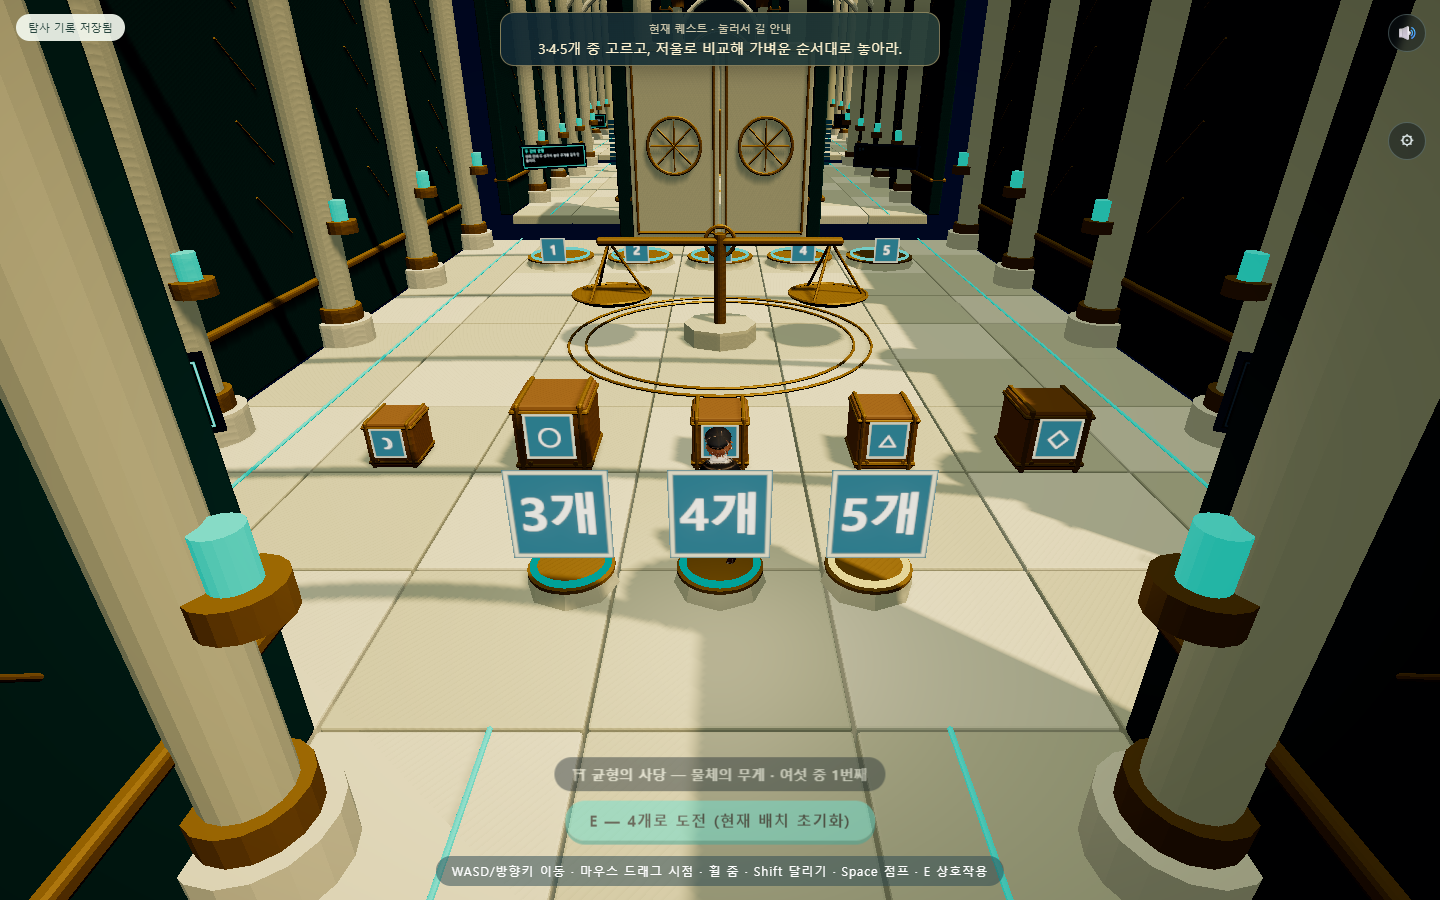
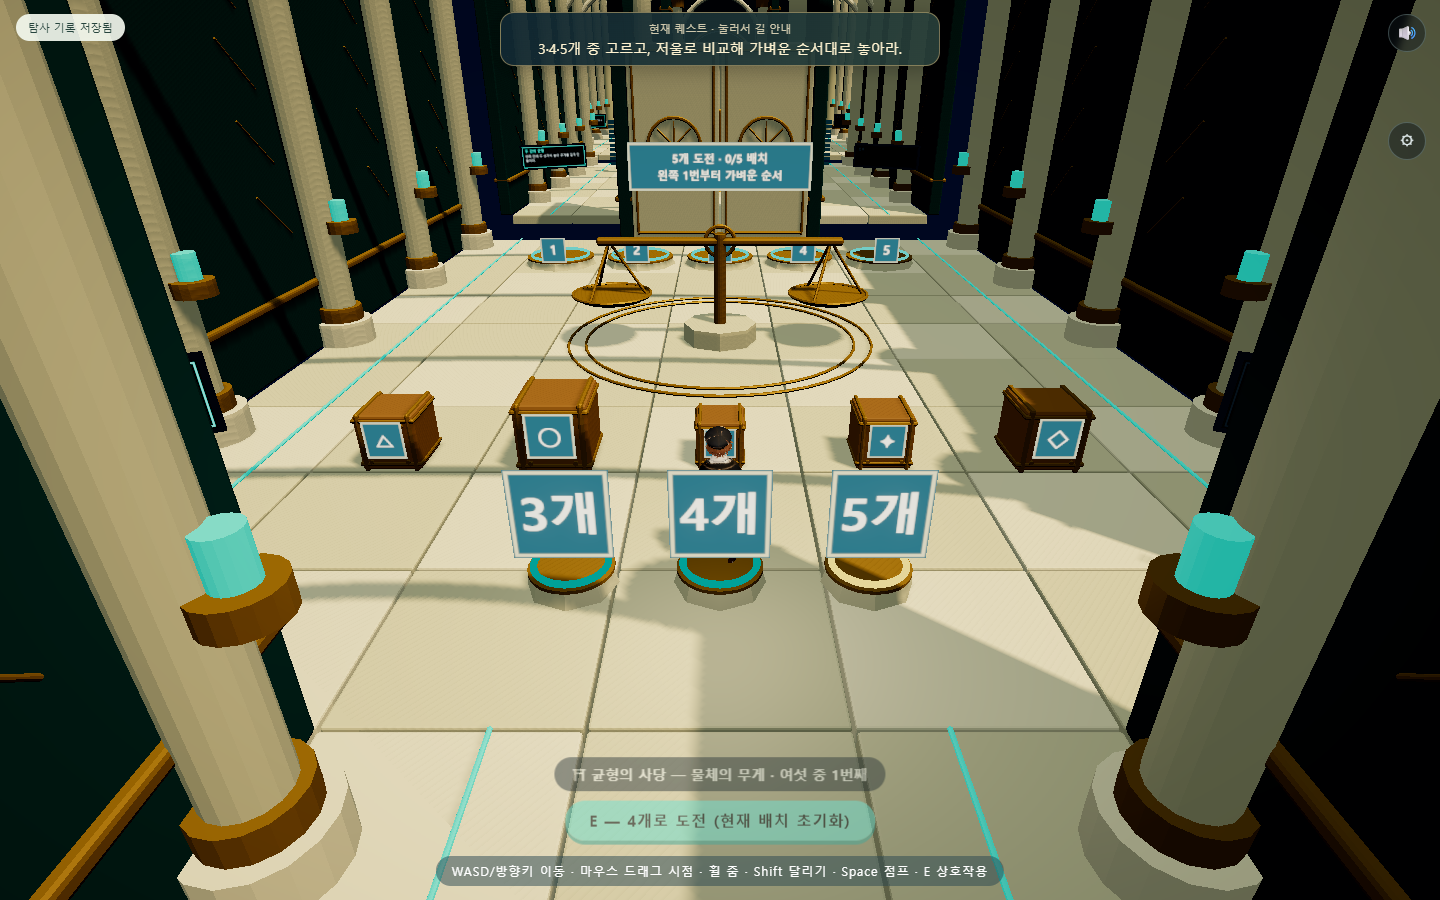
Fix balance door synchronization and open water shrine entrance

diff --git a/src/shrine/BalanceTrials.js b/src/shrine/BalanceTrials.js
@@ -41,12 +41,24 @@ export class BalanceOrder extends CarryTrial {
     this.scaleBeam=this.scale.getObjectByName('scale_beam');this.panGroups=[this.scale.getObjectByName('pan_left'),this.scale.getObjectByName('pan_right')];
     for(const x of [-1.9,1.9])this.cells.push({x,z:this.scale.position.z,y:.7});
     this.choices=[3,4,5].map((n,i)=>{const x=(i-1)*1.4,z=seg.z1-1.8;const p=pad(this.root,x,z,.5);label(`${n}개`,x,.9,z+.25,.9,this.root);return {n,x,z,mat:p.mat};});this.select(5);this.tilt=0;this.obstacles=[{x:0,z:this.scale.position.z,r:.7}];
+    this.statusLabel=label('선택한 상자를 가벼운 순서대로',0,2.1,seg.z0+1.3,4.8,this.root);
   }
   select(n){if(this.solved||![3,4,5].includes(n))return false;this.restart();this.count=n;const order=this.stock.slice(0,n).map((b,i)=>({i,key:b.homeRank})).sort((a,b)=>a.key-b.key);order.forEach((v,j)=>this.stock[v.i].home.x=(j-(n-1)/2)*2);this.stock.forEach((b,i)=>{b.mesh.visible=i<n;});this.pads.forEach((p,i)=>{p.group.visible=i<n;p.mat.color.set(0x56c9c1);this.cells[i].visible=i<n;});this.choices.forEach(c=>c.mat.color.set(c.n===n?0xffdc85:0x36938c));this.sync();return true;}
   interact(p){const c=this.choices.find(c=>Math.hypot(p.x-c.x,p.z-c.z)<.7);return c?this.select(c.n):super.interact(p);}
-  prompt(p){const c=this.choices.find(c=>Math.hypot(p.x-c.x,p.z-c.z)<.7);return c&&!this.solved?`E — ${c.n}개로 도전 (현재 배치 초기화)`:super.prompt(p);}
-  check(){this.solved=this.stock.slice(0,this.count).every((b,i)=>b.at===i);this.pads.forEach(p=>p.mat.color.set(this.solved?0xffd27a:0x56c9c1));}
-  update(dt,actor){const l=this.stock.find(b=>b.at===5)?.w||0,r=this.stock.find(b=>b.at===6)?.w||0;const target=Math.sign(l-r)*.18;this.tilt+=(target-this.tilt)*Math.min(1,dt*5);if(this.scaleBeam)this.scaleBeam.rotation.z=this.tilt;this.panGroups.forEach(p=>{if(p)p.rotation.z=-this.tilt;});for(let i=0;i<2;i++)this.cells[i+5].y=.75+(i===0?-1:1)*Math.sin(this.tilt)*1.9;return super.update(dt,actor);}
+  orderStatus(){const active=this.stock.slice(0,this.count),placed=active.filter(b=>b.at>=0&&b.at<this.count).length;
+    return this.solved?`${this.count}개 순서 성공! 중앙 문으로 이동`:`${this.count}개 도전 · ${placed}/${this.count} 배치 · ${placed===this.count?'순서가 달라요 — 저울로 다시 비교':'왼쪽 1번부터 가벼운 순서'}`;}
+  prompt(p){const c=this.choices.find(c=>Math.hypot(p.x-c.x,p.z-c.z)<.7);if(c&&!this.solved)return `E — ${c.n}개로 도전 (현재 배치 초기화)`;if(this.held===null&&!this.near(p))return this.orderStatus();return super.prompt(p);}
+  check(){this.solved=this.stock.slice(0,this.count).every((b,i)=>b.at===i);this.pads.forEach(p=>p.mat.color.set(this.solved?0xffd27a:0x56c9c1));
+    const text=this.orderStatus();if(this.statusLabel&&text!==this.lastStatus){
+      const map=this.statusLabel.material.map,cv=map.image,c=cv.getContext('2d');c.fillStyle='#102e39';c.fillRect(0,0,cv.width,cv.height);c.strokeStyle=this.solved?'#ffd27a':'#baab73';c.lineWidth=5;c.strokeRect(4,4,cv.width-8,120);c.fillStyle=this.solved?'#ffd27a':'#fff5ce';c.font='bold 30px sans-serif';c.textAlign='center';c.textBaseline='middle';
+      const lines=text.split(' · ');if(lines.length>1){c.fillText(lines.slice(0,2).join(' · '),cv.width/2,44,cv.width-24);c.fillText(lines.slice(2).join(' · '),cv.width/2,88,cv.width-24);}else c.fillText(text,cv.width/2,64,cv.width-24);map.needsUpdate=true;this.lastStatus=text;
+    }
+  }
+  update(dt,actor){
+    // Reconcile the current layout as well as the last interaction event.
+    // Only selected crates participate; scale pans never count as answer pads.
+    this.check();
+    const l=this.stock.find(b=>b.at===5)?.w||0,r=this.stock.find(b=>b.at===6)?.w||0;const target=Math.sign(l-r)*.18;this.tilt+=(target-this.tilt)*Math.min(1,dt*5);if(this.scaleBeam)this.scaleBeam.rotation.z=this.tilt;this.panGroups.forEach(p=>{if(p)p.rotation.z=-this.tilt;});for(let i=0;i<2;i++)this.cells[i+5].y=.75+(i===0?-1:1)*Math.sin(this.tilt)*1.9;return super.update(dt,actor);}
   state(){return {...super.state(),count:this.count};}
   valid(s){return super.valid(s)&&[3,4,5].includes(s.count)&&s.at.every((a,i)=>i<s.count?(a<s.count||a>=5):a===-1)&&s.solved===s.at.slice(0,s.count).every((a,i)=>a===i);}
   restore(s){this.solved=false;this.select(s.count);super.restore(s);this.pads.forEach(p=>p.mat.color.set(this.solved?0xffd27a:0x56c9c1));}

diff --git a/src/world/FirstTrail.js b/src/world/FirstTrail.js
@@ -74,25 +74,26 @@ export function buildFirstTrail(scene, planet, plan, carpet, waterway) {
   const state = { version: 1, overlook: false, glider: false, water: false, restored: false };
   let t = 0;
   const near = (position, d, radius) => position.clone().normalize().dot(d) > Math.cos(radius / planet.R);
-  function sync() { equipment.visible = !state.glider; gateMat.opacity = state.restored ? 0.24 : 0.035; }
+  const entryOpen=()=>waterway.entranceOpen||state.restored;
+  function sync() { equipment.visible = !state.glider; gateMat.opacity = entryOpen() ? 0.24 : 0.035; }
   return {
     group, plan, gateDir, equipment,
     update(dt, player) {
-      t += dt; flag.rotation.y = Math.sin(t * 1.8) * 0.12; ring.rotation.z = state.restored ? t * 0.13 : 0;
+      t += dt; flag.rotation.y = Math.sin(t * 1.8) * 0.12; ring.rotation.z = entryOpen() ? t * 0.13 : 0;
       let message = null;
       if (!state.overlook && near(player.position, plan.overlook, 4.5)) { state.overlook = true; message = TRAIL_TEXT.found; }
-      if (!state.water && waterway.discovered) { state.water = true; message = TRAIL_TEXT.water; }
-      if (!state.restored && waterway.solved) { state.restored = true; message = TRAIL_TEXT.restored; }
+      if (!state.water && (waterway.discovered||waterway.entranceOpen&&near(player.position,gateDir,8))) { state.water = true; message = waterway.entranceOpen?'물의 사당 입구를 찾았다. 문으로 바로 들어갈 수 있다.':TRAIL_TEXT.water; }
+      if (!waterway.entranceOpen&&!state.restored && waterway.solved) { state.restored = true; message = TRAIL_TEXT.restored; }
       sync(); return message;
     },
     getPrompt(position) {
       if (!state.glider && near(position, plan.overlook, 2.1)) return 'E — 접이식 활공막 챙기기';
-      if (near(position, gateDir, 2.6)) return state.restored ? 'E — 물의 사당에 들어가기' : '멈춘 물레와 이어진 문이다';
+      if (near(position, gateDir, 2.6)) return entryOpen() ? 'E — 물의 사당에 들어가기' : '멈춘 물레와 이어진 문이다';
       return null;
     },
     interact(position) {
       if (!state.glider && near(position, plan.overlook, 2.1)) { state.glider = true; state.overlook = true; sync(); return { kind: 'glider', message: TRAIL_TEXT.equipped }; }
-      if (state.restored && near(position, gateDir, 2.6)) return { kind: 'water-shrine' };
+      if (entryOpen() && near(position, gateDir, 2.6)) return { kind: 'water-shrine' };
       return null;
     },
     exportState() { return { ...state }; },
@@ -104,11 +105,11 @@ export function buildFirstTrail(scene, planet, plan, carpet, waterway) {
     get glider() { return state.glider; },
     get records() { return Object.entries(TRAIL_TEXT).flatMap(([key, text]) => {
       const has = ({ found: state.overlook, equipped: state.glider, water: state.water, restored: state.restored })[key];
-      return has ? [{ key: 'trail-' + key, text: key === 'restored' ? `${text} ${waterway.record}` : text }] : [];
+      return has ? [{ key: 'trail-' + key, text: key==='water'&&waterway.entranceOpen?'물의 사당 입구를 발견했다. 문으로 바로 들어갈 수 있다.':key === 'restored' ? `${text} ${waterway.record}` : text }] : [];
     }); },
     get landmarks() { return [
       ...(state.overlook ? [{ dir: plan.overlook, label: '바람고개', done: state.glider }] : []),
-      ...(state.water ? [{ dir: plan.waterway, label: '물길 유적', done: state.restored }] : []),
+      ...(state.water ? [{ dir: waterway.entranceOpen?gateDir:plan.waterway, label: waterway.entranceOpen?'물의 사당 입구':'물길 유적', done: entryOpen() }] : []),
     ]; },
   };
 }

diff --git a/src/boot.js b/src/boot.js
@@ -700,9 +700,9 @@ function stepRoom(dt, intent) {
       if (r.stay) { noteMsg = `💫 ${r.fail}`; noteT = 1.6; }
       else failTo(segOf(g.room), r.fail);
     }
-    if (!g.solved && g.gate.solvedBy(roomActor)) {
-      g.solved = true;
-      g.gate.complete?.();
+    if (g.gate.solvedBy(roomActor)) {
+      if(!g.solved){g.solved = true;g.gate.complete?.();}
+      // A restored/completed puzzle and its door must not drift apart.
       dungeon.openDoor(g.room);
     }
     if (inSeg && !g.solved && g.gate.prompt) prompt = g.gate.prompt(roomActor.position) || prompt;
@@ -950,7 +950,7 @@ const landing = buildLanding(planetScene, planet, landingDir);
 const forage = buildForage(planetScene, planet, forageSpots, legendSpots, carpet);
 // 부엌 — 내림판 옆 모닥불. 채집이 쓰이는 곳(recipes.js 머리말).
 const kitchen = buildKitchen(planetScene, planet, landing, carpet, forage);
-const waterway = buildWaterway(planetScene, planet, trailPlan.waterway, { carpet });
+const waterway = buildWaterway(planetScene, planet, trailPlan.waterway, { carpet, entranceOnly:true });
 const firstTrail = buildFirstTrail(planetScene, planet, trailPlan, carpet, waterway);
 
 // 채집 결과 — 처음 얻은 것은 수첩에 한 줄이 적히고, 연구실 병 하나가 찬다.

diff --git a/src/world/Waterway.js b/src/world/Waterway.js
@@ -351,5 +351,12 @@ export function buildWaterway(scene, planet, dir, opts = {}) {
       geometries.forEach(g => g.dispose()); materials.forEach(m => m.dispose()); labelTexture.dispose(); group.removeFromParent();
     },
   };
+  if(opts.entranceOnly){
+    // Keep the legacy save codec and coordinate frame, but remove the outdoor
+    // thawing installation and every interaction/collision it used to own.
+    group.removeFromParent();api.entranceOpen=true;
+    api.update=()=>({});api.getPrompt=()=>null;api.interact=()=>false;api.resolve=()=>0;
+    Object.defineProperty(api,'held',{get:()=>false});
+  }
   return api;
 }

diff --git a/reports/2026-09-12/BALANCE_ORDER_CHECK.md b/reports/2026-09-12/BALANCE_ORDER_CHECK.md
@@ -1,0 +1,28 @@
+# 첫 무게 퍼즐 3개 완료 후 이동 점검
+
+사용자 제보: 3개 모드를 완료해도 다음 방으로 넘어가지 못함.
+
+## 확인한 사실
+
+수정 전 로컬 코드에서 3·4·5개를 각각 실제 상호작용 입력으로 선택하고, 가벼운 순서대로 집어 배치한 뒤 문을 열고 두 번째 방까지 걸어가는 검사는 모두 통과했다. 선택 개수보다 많은 상자를 요구하는 조건은 없었다. 사용자에게 발생한 동일 증상의 원인은 아직 확인되지 않았다.
+
+기존 검사는 개수 선택만 3·4·5개로 확인하고 실제 문 통과는 5개에서만 확인했다. 이번에 모든 개수의 실제 배치·문 통과·저장 복원을 검사하는 `tools/check-balance-order-counts.cjs`를 추가했다.
+
+## 보강
+
+- 출구 앞 상태판에 선택 개수, 배치 수, 순서 불일치, 성공 여부를 표시한다.
+- 3/3 배치라도 순서가 틀리면 성공과 구분해 안내한다. 정답 상자의 무게는 공개하지 않는다.
+- 마지막 상호작용 시점 외에도 업데이트에서 실제 배치를 다시 확인한다. 올바른 배치와 미갱신 판정이 공존하면 정상 성공 판정으로 회복한다.
+- 저울의 두 접시는 정답 받침으로 세지 않으며, 선택하지 않은 상자는 성공에 요구하지 않는다.
+
+이 변경을 사용자 제보의 확정 원인 수정이라고 주장하지 않는다. ‘문이 닫혀 있는지 / 열린 문에서 이동이 막히는지 / 상자 배치만 끝났고 순서 판정은 실패인지’의 구분이 추가로 필요하다.
+
+검증 결과와 화면: `evidence/balance-order/`.
+
+## 추가 확인 및 물의 사원 입구 변경
+
+사용자는 문 자체가 계속 닫혀 있다고 확인했다. 완료된 퍼즐의 문 상태만 초기화한 회귀 검사에서, 매 프레임 문 열림을 동기화하는 변경으로 통과 상태가 회복됐다. 최초 제보의 정확한 발생 경로는 여전히 확인되지 않았다.
+
+물의 사원 야외 해빙 장치를 장면에서 제거하고 상호작용·충돌·업데이트를 비활성화했다. 포털은 바로 입장 가능하며 기존 물길 저장 데이터는 호환을 위해 유지한다. 신전 내부 퍼즐은 유지한다.
+
+검증: 3/4/5 실제 배치·문 통과·저장 복원, 잘못된 순서 차단, 완료 상태의 닫힌 문 복구, 미해빙 상태에서 실제 입장 입력, 기존 물길 데이터 복원, 소스 검사 모두 통과. `tools/check-direct-water-entry.cjs`와 `evidence/balance-order/entry-check.json` 참조.
